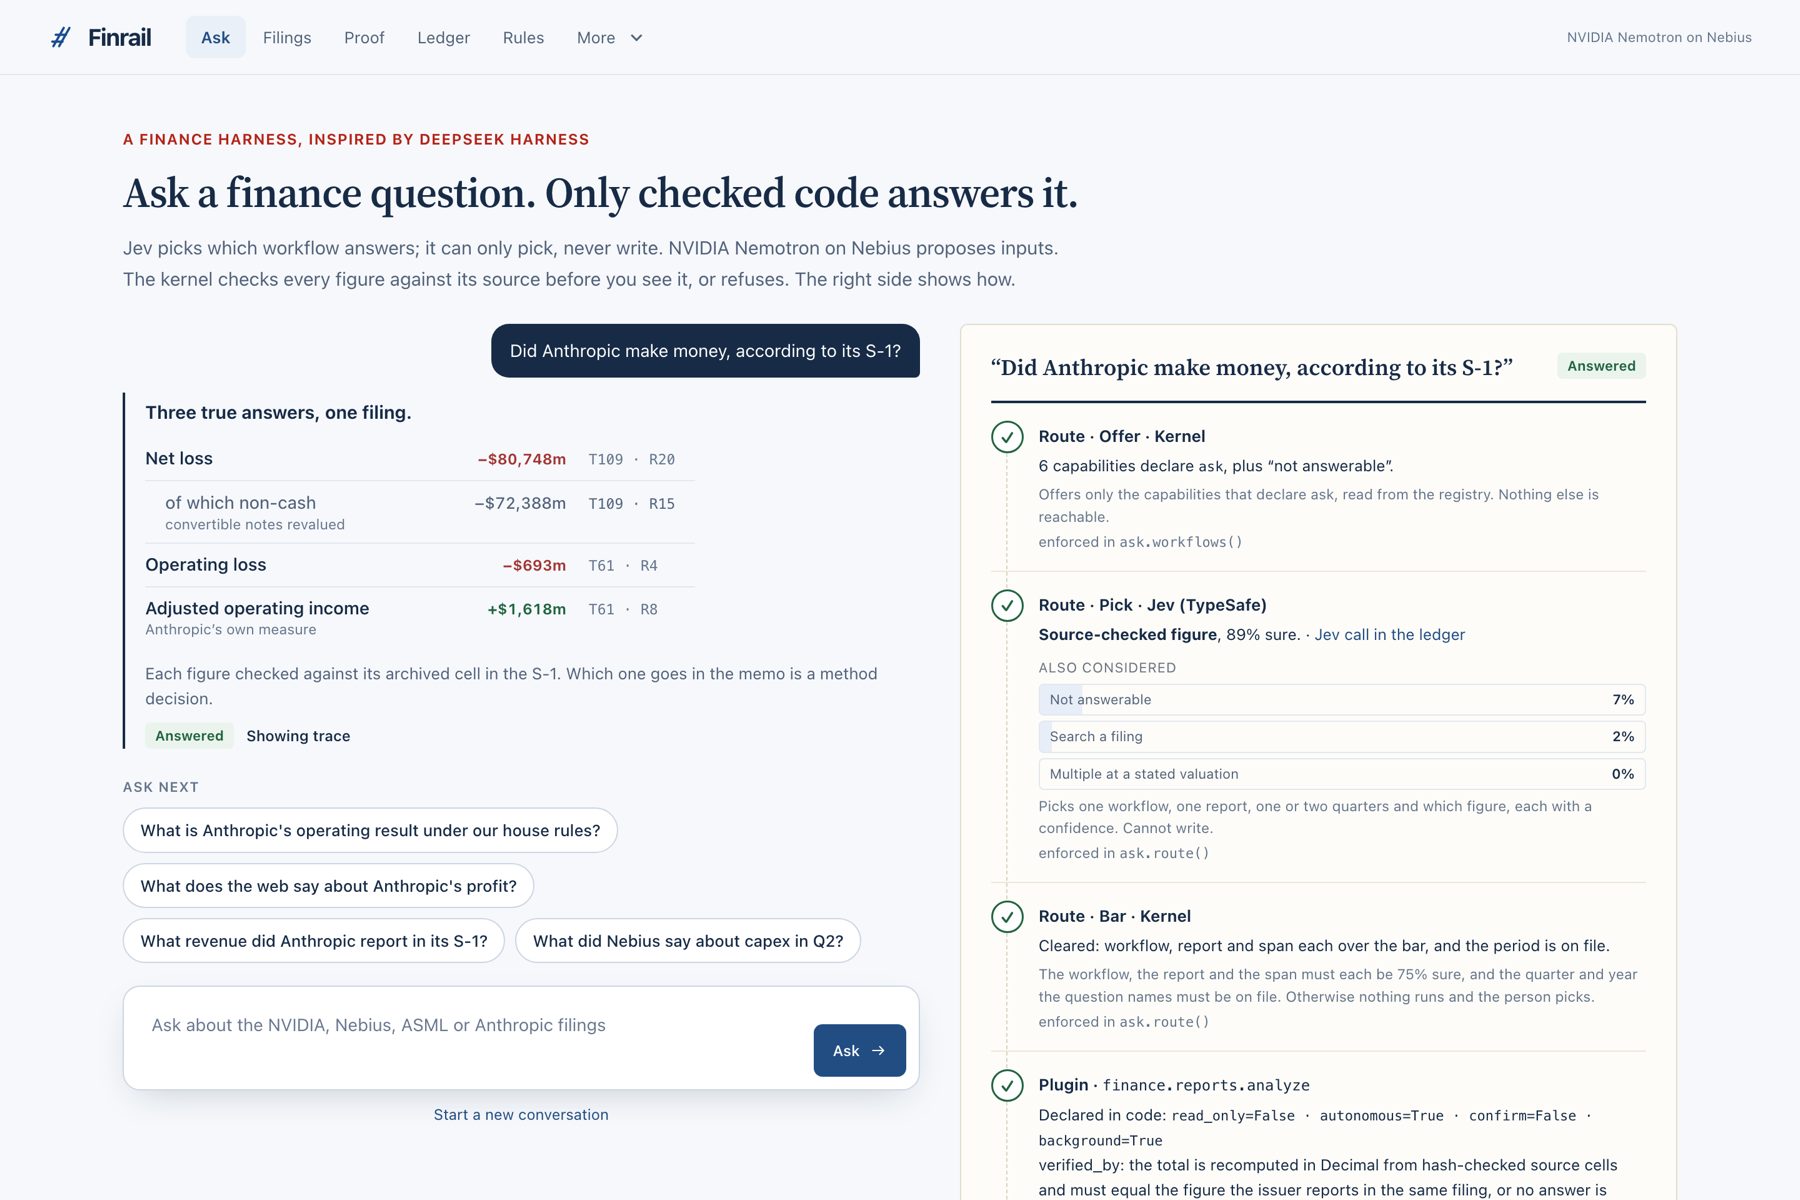
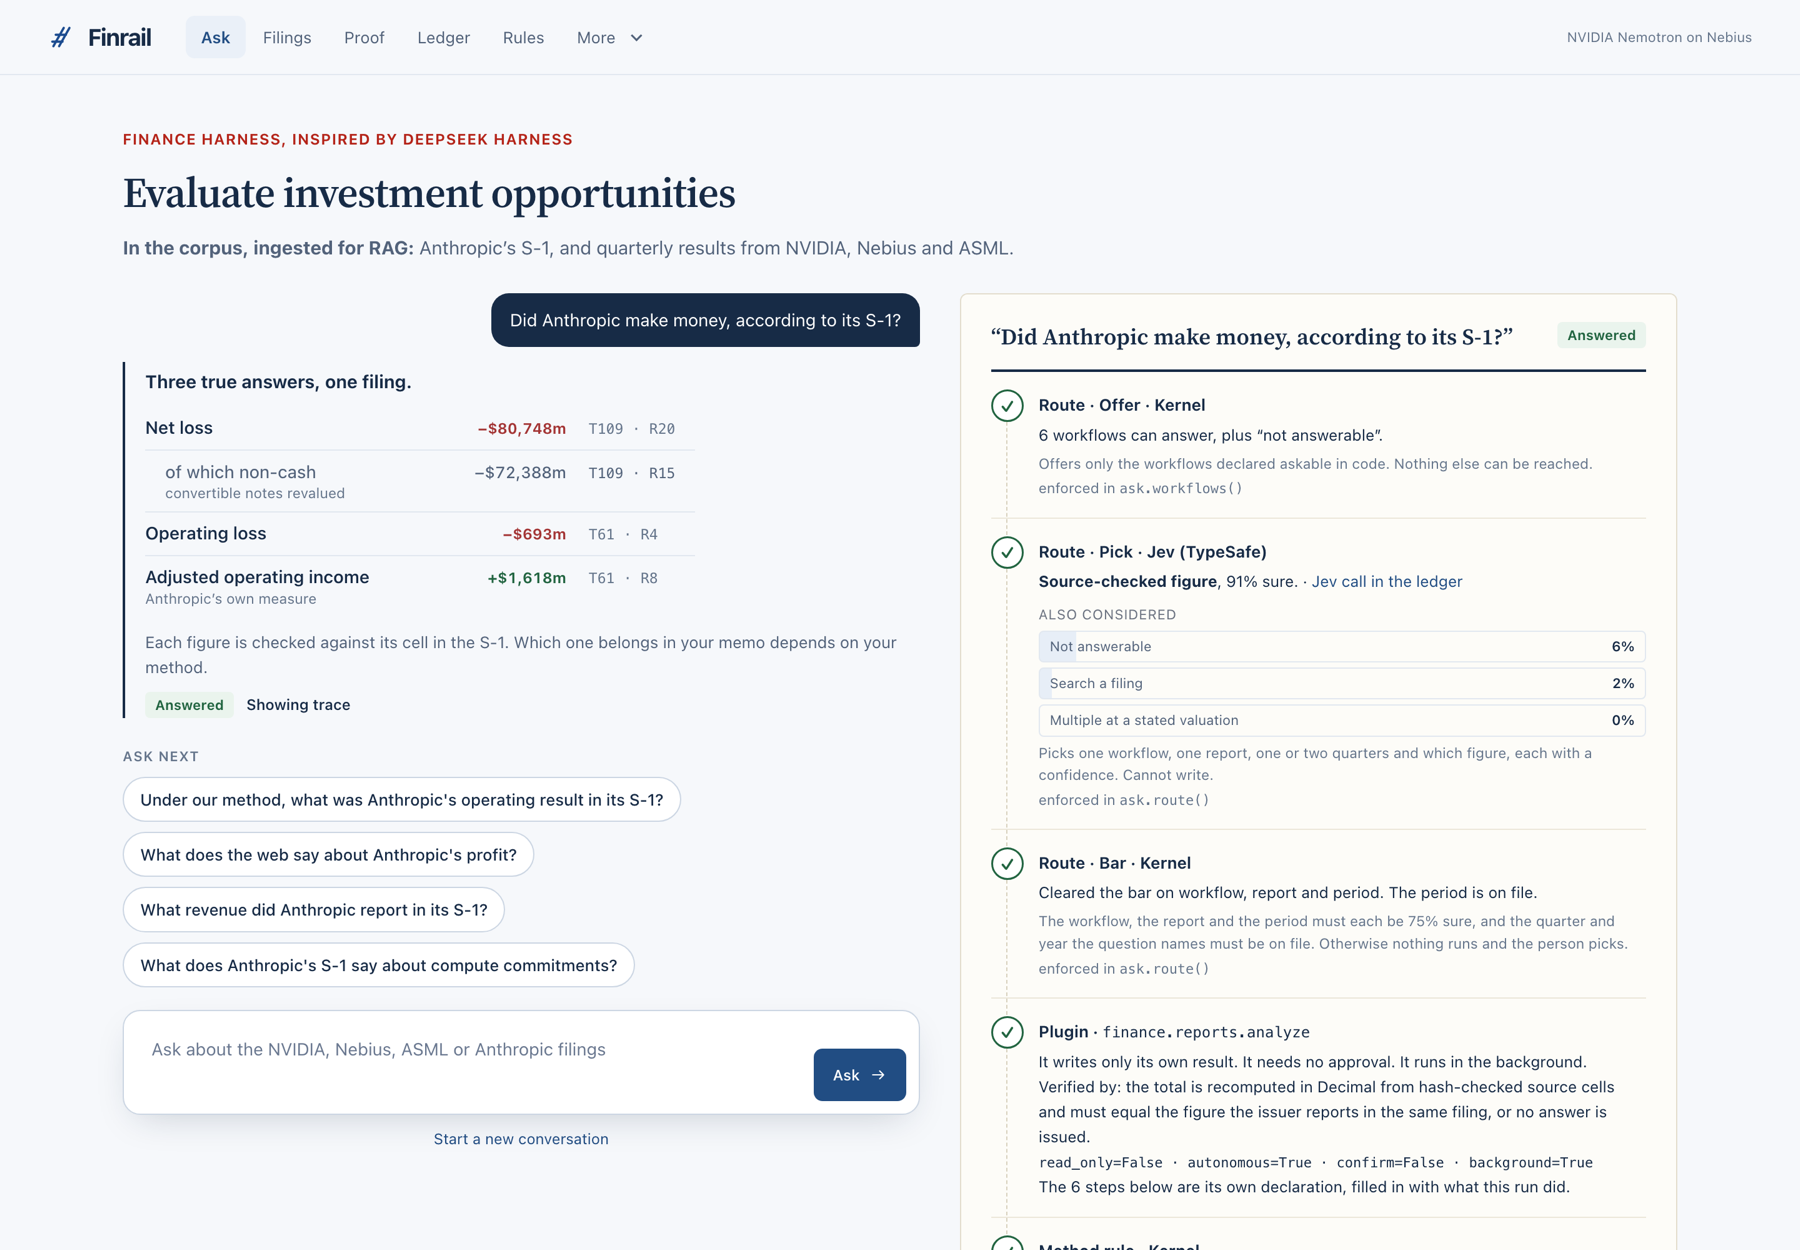
README: current UI screenshots and a Screens section
Retakes the Ask screenshot from the live site and adds the method answer, a quoted
Nemotron answer, the workpaper, the Rules page and the console screen.

diff --git a/README.md b/README.md
@@ -127,6 +127,28 @@ Each answer offers the next question as a chip, so the story clicks through:
 
 The Rules page renders every capability's declared steps from the live registry. The Ledger shows every model and Jev call.
 
+## Screens
+
+**A figure under the fund's method.** −$567m under rule M-1, with the $2,185m gap to Anthropic's adjusted figure explained. The trace on the right shows each step and the rule that holds it.
+
+![Ask page: Anthropic's operating result under method rule M-1, minus 567 million dollars, with the harness trace](docs/img/method.png)
+
+**A quoted answer.** Nemotron picks sentence IDs. Code pastes the exact filing text, and refuses the answer if an ID is unknown.
+
+![Ask page: four sentences quoted word for word from Anthropic's S-1 about competition, each with its excerpt and sentence ID](docs/img/quoted.png)
+
+**The workpaper.** Every input traced to its table, row and column in the filing, recomputed in Decimal by code, and reconciled to the issuer's own figure.
+
+![Proof page: workpaper for the operating result under the fund's method, each line with its source cell and a check mark](docs/img/proof.png)
+
+**The rules.** Every capability's execution rules, verification and declared steps, rendered from the code that enforces them.
+
+![Rules page: a table of capabilities with their execution rules, verification and declared steps](docs/img/rules.png)
+
+**Console Screen.**
+
+![Console Screen](docs/img/console-screen.png)
+
 ## The capabilities
 
 | Pack | What it does | The rule it enforces |
